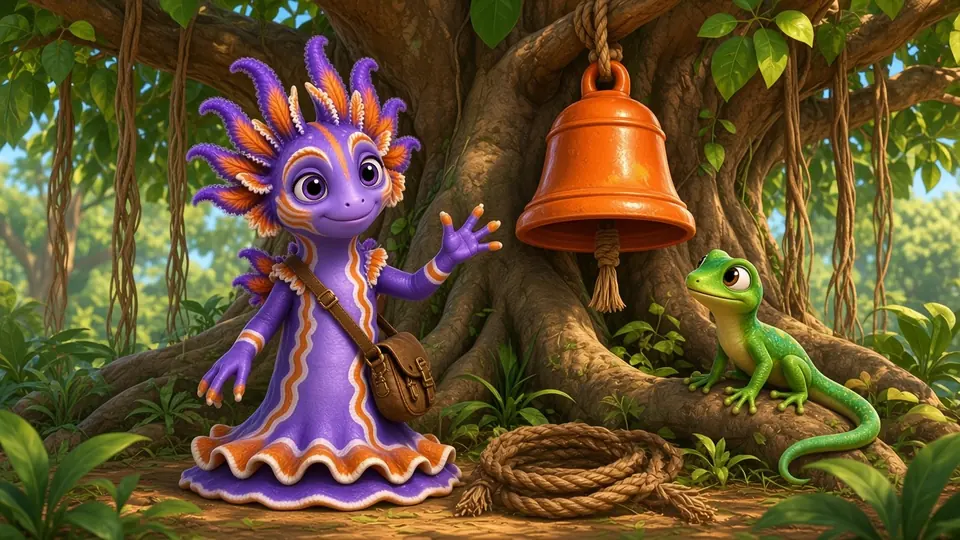
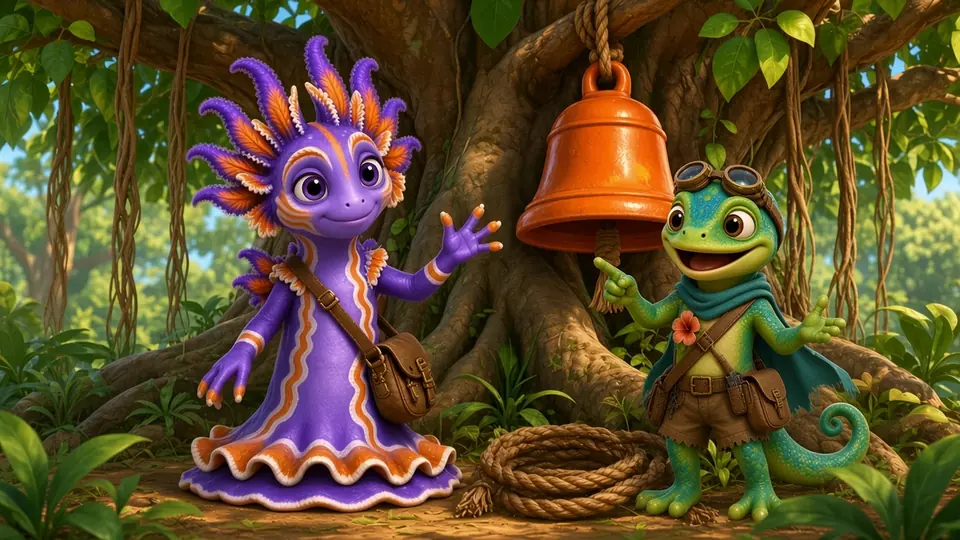
Put Zip back on model in the lesson picker scenes.
He stands at Frill's height with goggles, scarf, hibiscus, and satchel. Frill stays the armed nudibranch. Cache is ir-20261127m.

diff --git a/sw.js b/sw.js
@@ -1,7 +1,7 @@
 /* Island Readers sample service worker.
    Code (HTML/JS/CSS/data) is network-first so a new version always wins; the cache is only an offline fallback.
    Media (images/audio/video) is cache-first. Install never fails because of one file. */
-const CACHE = 'ir-20261127k';
+const CACHE = 'ir-20261127m';
 const ASSETS = [
  "./index.html",
  "./js/wordplay.js",
